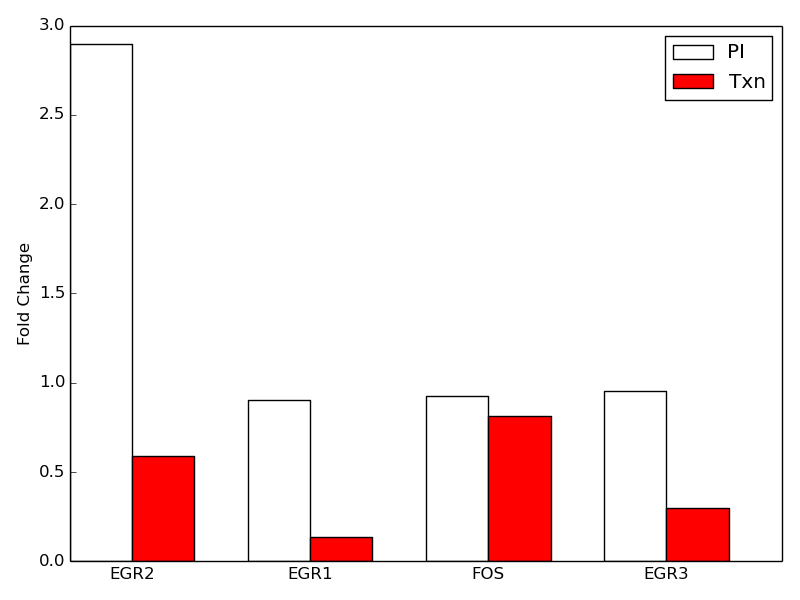
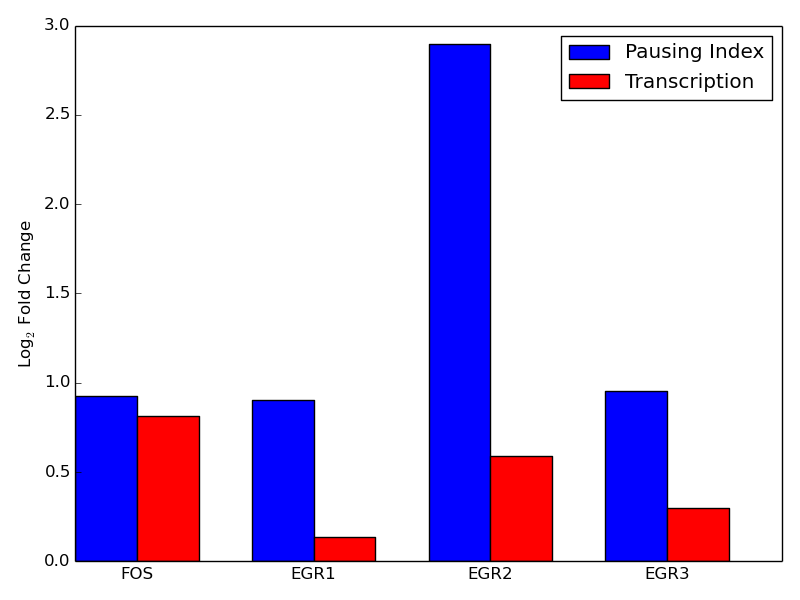
updates

diff --git a/src/master_writer.py b/src/master_writer.py
@@ -95,7 +95,7 @@ def run(DMSOgenes,DMSOTSS,DMSOEND,CAgenes,CATSS,CAEND,filedir,figuredir):
         pX.append(DMSOgenes/1000000.0)
         pY.append(CAgenes/1000000.0)
         name = gene.split(';')[1]
-        if gene in ['NM_005252;FOS;chr14:75745480-75748937_+','NM_001964;EGR1;chr5:137801180-137805004_+','NM_001136177;EGR2;chr10:64571755-64576126_-','NM_004430;EGR3;chr8:22545173-22550815_-']:
+        if gene in ['NM_005252;FOS;chr14:75745480-75748937_+','NM_001964;EGR1;chr5:137801180-137805004_+','NM_001136177;EGR2;chr10:64571755-64576126_-','NM_004430;EGR3;chr8:22545173-22550815_-','NM_006981;NR4A3;chr9:102584136-102629173_+']:
             #if name in namelist:
             #    i = namelist.index(name)
             #    DMSOprev = DMSObarplot[i]
@@ -411,7 +411,7 @@ def run(DMSOgenes,DMSOTSS,DMSOEND,CAgenes,CATSS,CAEND,filedir,figuredir):
     ax1.text(15,12, "Pearson = " + str(pearsons)[0:5])
     plt.savefig(figuredir + '/PausingIndex.png')
     
-    order = ['FOS','EGR1','EGR2','EGR3']
+    order = ['FOS','EGR1','EGR2','EGR3','NR4A3']
     PIbarplotsorted = list()
     Txnbarplotsorted = list()
     for item in order:
